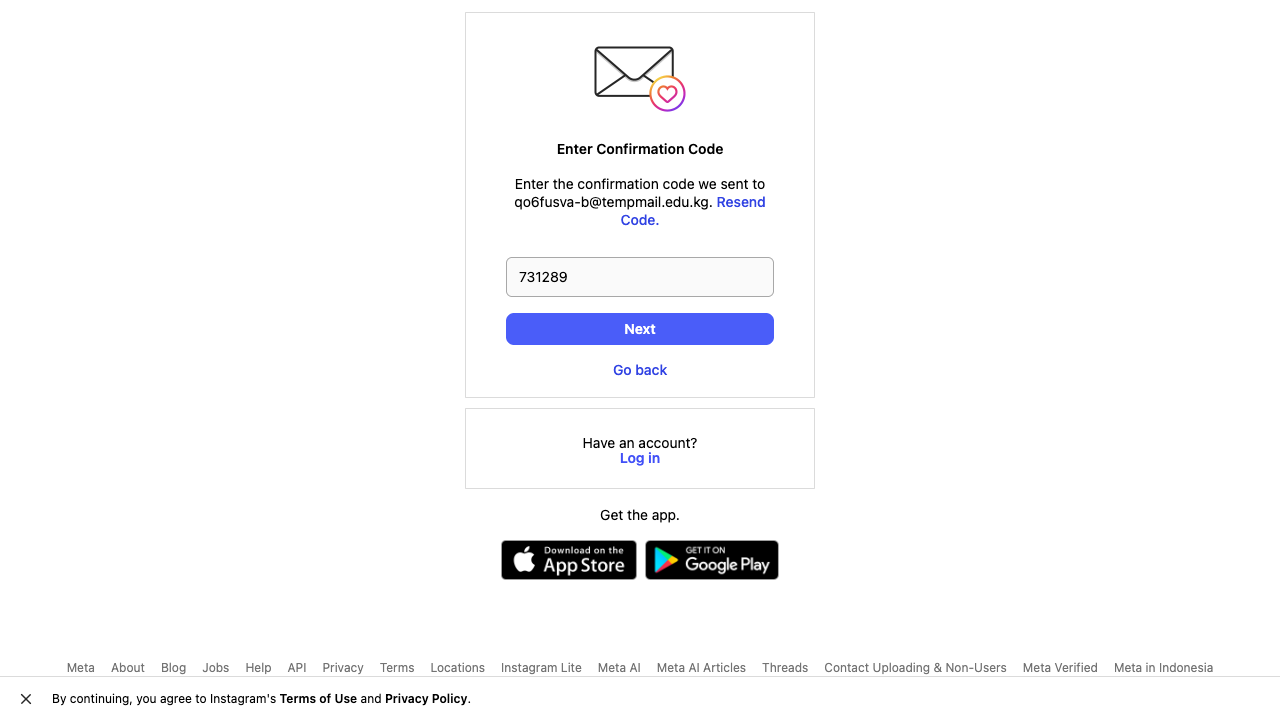
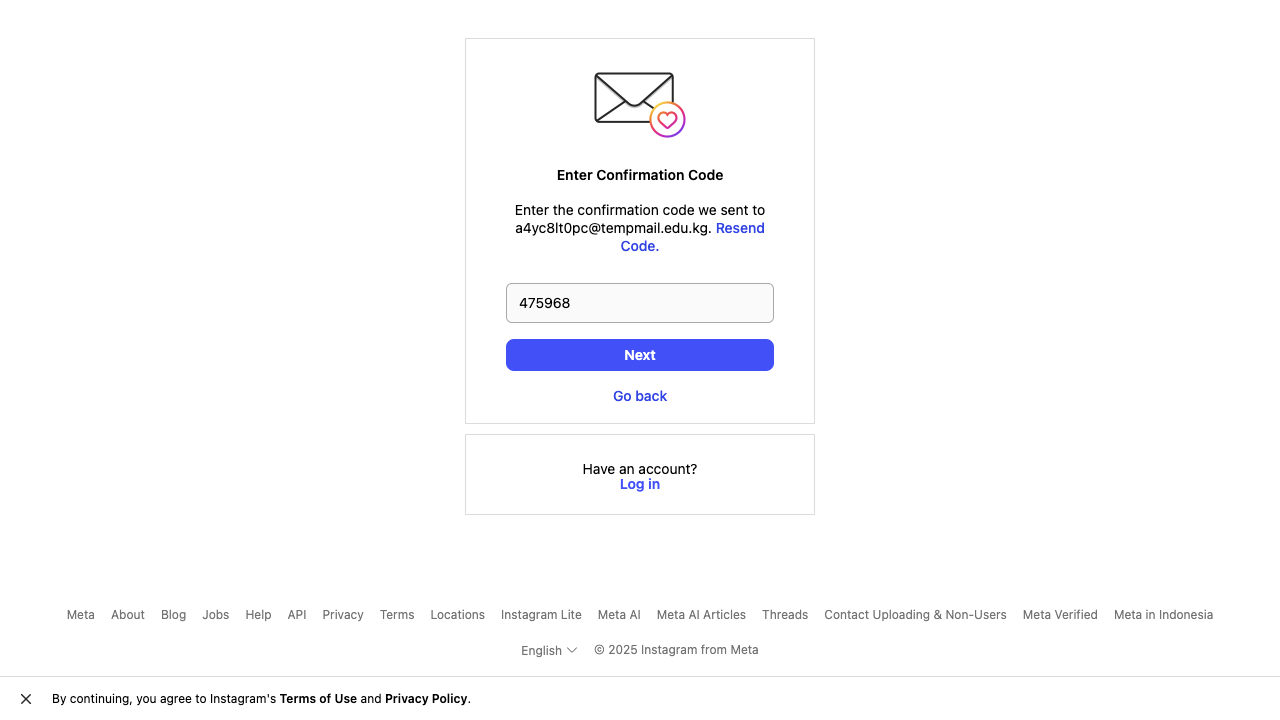
feat: registration

diff --git a/index.js b/index.js
@@ -1,39 +1,91 @@
 // install dulu: npm install playwright
-// jalankan: node instagram_signup.js
+// jalankan: node index.js
 
 const { chromium } = require("playwright");
+const fs = require("fs");
+const path = require("path");
 
-(async () => {
-  const browser = await chromium.launch({ headless: false }); // ganti true jika ingin headless
+// Function to save account data to JSON
+function saveAccountToJSON(accountData) {
+  const accountsFile = path.join(__dirname, 'accounts.json');
+  let accounts = [];
+  
+  // Read existing accounts if file exists
+  if (fs.existsSync(accountsFile)) {
+    try {
+      const data = fs.readFileSync(accountsFile, 'utf8');
+      accounts = JSON.parse(data);
+    } catch (err) {
+      console.log('Error reading accounts file, starting fresh:', err.message);
+      accounts = [];
+    }
+  }
+  
+  // Add new account
+  accounts.push({
+    ...accountData,
+    createdAt: new Date().toISOString(),
+    id: accounts.length + 1
+  });
+  
+  // Save updated accounts
+  try {
+    fs.writeFileSync(accountsFile, JSON.stringify(accounts, null, 2));
+    console.log(`✅ Account saved to accounts.json (Total: ${accounts.length})`);
+  } catch (err) {
+    console.error('❌ Error saving account:', err.message);
+  }
+}
+
+// Function to create single Instagram account
+async function createInstagramAccount(accountNumber, browser) {
+  console.log(`\n🚀 Starting account creation ${accountNumber}/10...`);
+  
+  const accountData = {
+    email: '',
+    fullName: '',
+    username: '',
+    password: 'Password123!',
+    verificationCode: '',
+    status: 'failed',
+    error: null
+  };
+
   const page = await browser.newPage();
 
-  // 1. buka temp mail
-  await page.goto("https://tempmail.edu.kg/en/");
+  try {
+    // 1. buka temp mail
+    await page.goto("https://tempmail.edu.kg/en/");
 
-  // tunggu sampai email muncul
-  // Wait for 3 seconds before getting the email
-  // Wait until the email value contains .edu.kg
-  const email = await page.waitForFunction(() => {
-    const emailInput = document.querySelector('#emailInput');
-    return emailInput && emailInput.value && emailInput.value.includes('.edu.kg');
-  }).then(() => page.$eval('#emailInput', (el) => el.value));
-  console.log("Generated temp email:", email);
+    // tunggu sampai email muncul
+    // Wait for 3 seconds before getting the email
+    // Wait until the email value contains .edu.kg
+    const email = await page.waitForFunction(() => {
+      const emailInput = document.querySelector('#emailInput');
+      return emailInput && emailInput.value && emailInput.value.includes('.edu.kg');
+    }).then(() => page.$eval('#emailInput', (el) => el.value));
+    console.log("Generated temp email:", email);
+    accountData.email = email;
 
-  // 2. buka instagram signup
-  const ig = await browser.newPage();
-  await ig.goto("https://www.instagram.com/accounts/emailsignup/");
+    // 2. buka instagram signup
+    const ig = await browser.newPage();
+    await ig.goto("https://www.instagram.com/accounts/emailsignup/");
 
-  // isi form instagram (email, fullname, username, password)
-  await ig.waitForSelector("input[name=emailOrPhone]");
-  await ig.fill("input[name=emailOrPhone]", email);
-  await ig.fill("input[name=fullName]", "Test Account");
-  await ig.fill(
-    "input[name=username]",
-    "test" + Math.floor(Math.random() * 1000000)
-  );
-  await ig.fill("input[name=password]", "Password123!");
+    // isi form instagram (email, fullname, username, password)
+    await ig.waitForSelector("input[name=emailOrPhone]");
+    await ig.fill("input[name=emailOrPhone]", email);
+    
+    const fullName = "John Doe " + Math.floor(Math.random() * 1000);
+    await ig.fill("input[name=fullName]", fullName);
+    accountData.fullName = fullName;
+    
+    const username = "john_doe_" + Math.floor(Math.random() * 1000);
+    await ig.fill("input[name=username]", username);
+    accountData.username = username;
+    
+    await ig.fill("input[name=password]", "Password123!");
 
-  await ig.click("button[type=submit]");
+    await ig.click("button[type=submit]");
 
   // Handle birthday form first
   try {
@@ -154,6 +206,7 @@ const { chromium } = require("playwright");
             const match = subjectText.match(/(\d{6})/);
             if (match) {
               code = match[1];
+              accountData.verificationCode = code;
               console.log(`✅ Extracted verification code: ${code}`);
               break;
             }
@@ -253,8 +306,87 @@ const { chromium } = require("playwright");
     console.log('Screenshot taken for debugging verification error');
   }
 
-  console.log("Signup process attempted!");
+    console.log("Signup process attempted!");
+    
+    // Mark as successful if we got this far
+    accountData.status = 'success';
+    
+    // Close pages but keep browser open for next account
+    await page.close();
+    await ig.close();
+    
+  } catch (error) {
+    console.error(`❌ Error creating account ${accountNumber}:`, error.message);
+    accountData.error = error.message;
+    accountData.status = 'failed';
+    
+    // Close pages even if there was an error
+    try {
+      await page.close();
+    } catch (closeErr) {
+      console.log('Error closing temp mail page:', closeErr.message);
+    }
+    
+    try {
+      const ig = await browser.newPage(); // Get reference if it exists
+      await ig.close();
+    } catch (closeErr) {
+      console.log('Error closing Instagram page:', closeErr.message);
+    }
+  }
+  
+  // Save account data regardless of success or failure
+  saveAccountToJSON(accountData);
+  
+  return accountData;
+}
 
-  // Jangan lupa tutup browser
-  // await browser.close();
+// Main function to run the loop
+(async () => {
+  console.log('🎯 Starting Instagram account creation bot - 10 accounts');
+  console.log('📝 Accounts will be saved to accounts.json');
+  
+  const browser = await chromium.launch({ headless: false });
+  const results = [];
+  
+  try {
+    for (let i = 1; i <= 10; i++) {
+      console.log(`\n${'='.repeat(50)}`);
+      console.log(`🔄 Creating account ${i}/10`);
+      console.log(`${'='.repeat(50)}`);
+      
+      const result = await createInstagramAccount(i, browser);
+      results.push(result);
+      
+      // Add delay between account creations
+      if (i < 10) {
+        console.log('\n⏱  Waiting 30 seconds before next account...');
+        await new Promise(resolve => setTimeout(resolve, 30000));
+      }
+    }
+    
+  } catch (error) {
+    console.error('❌ Fatal error in main loop:', error.message);
+  } finally {
+    await browser.close();
+    
+    // Summary
+    console.log('\n' + '='.repeat(60));
+    console.log('📊 FINAL SUMMARY');
+    console.log('='.repeat(60));
+    
+    const successful = results.filter(r => r.status === 'success').length;
+    const failed = results.filter(r => r.status === 'failed').length;
+    
+    console.log(`✅ Successful accounts: ${successful}/10`);
+    console.log(`❌ Failed accounts: ${failed}/10`);
+    console.log('📁 All account data saved to accounts.json');
+    
+    if (successful > 0) {
+      console.log('\n🎉 Successfully created accounts:');
+      results.filter(r => r.status === 'success').forEach((acc, idx) => {
+        console.log(`${idx + 1}. ${acc.username} (${acc.email})`);
+      });
+    }
+  }
 })();
